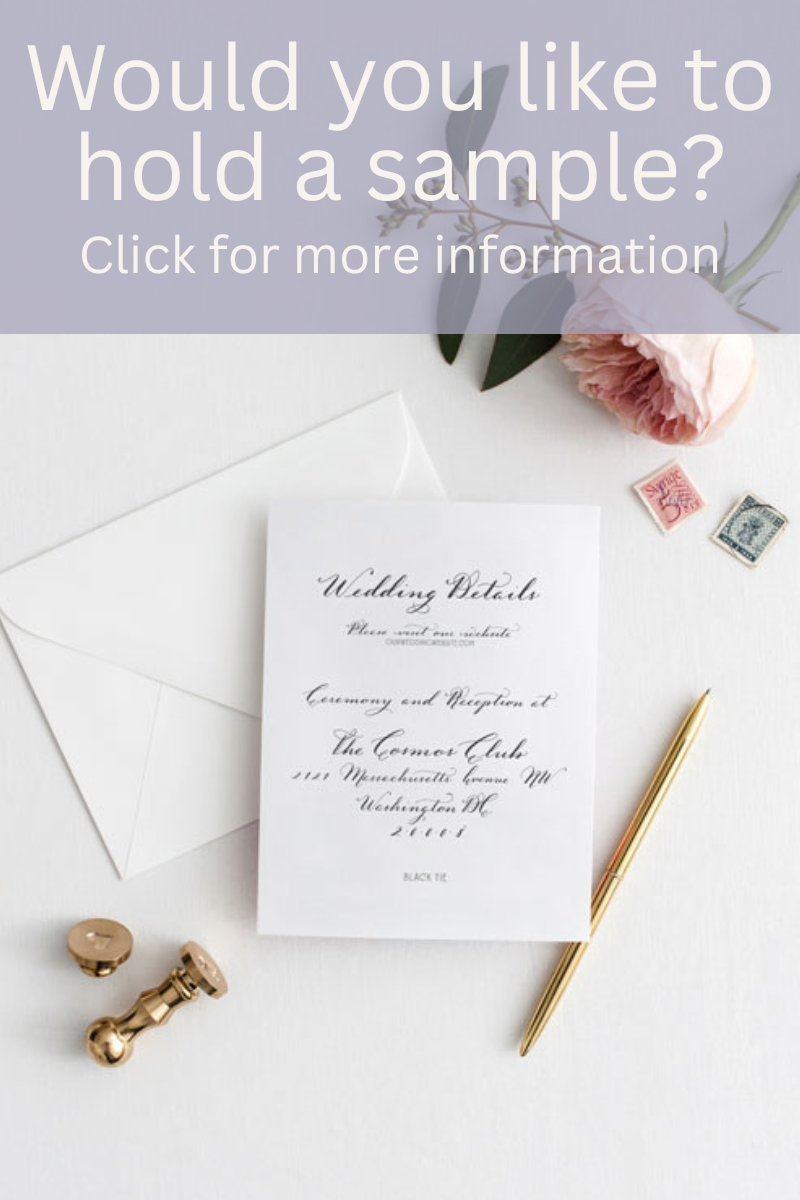
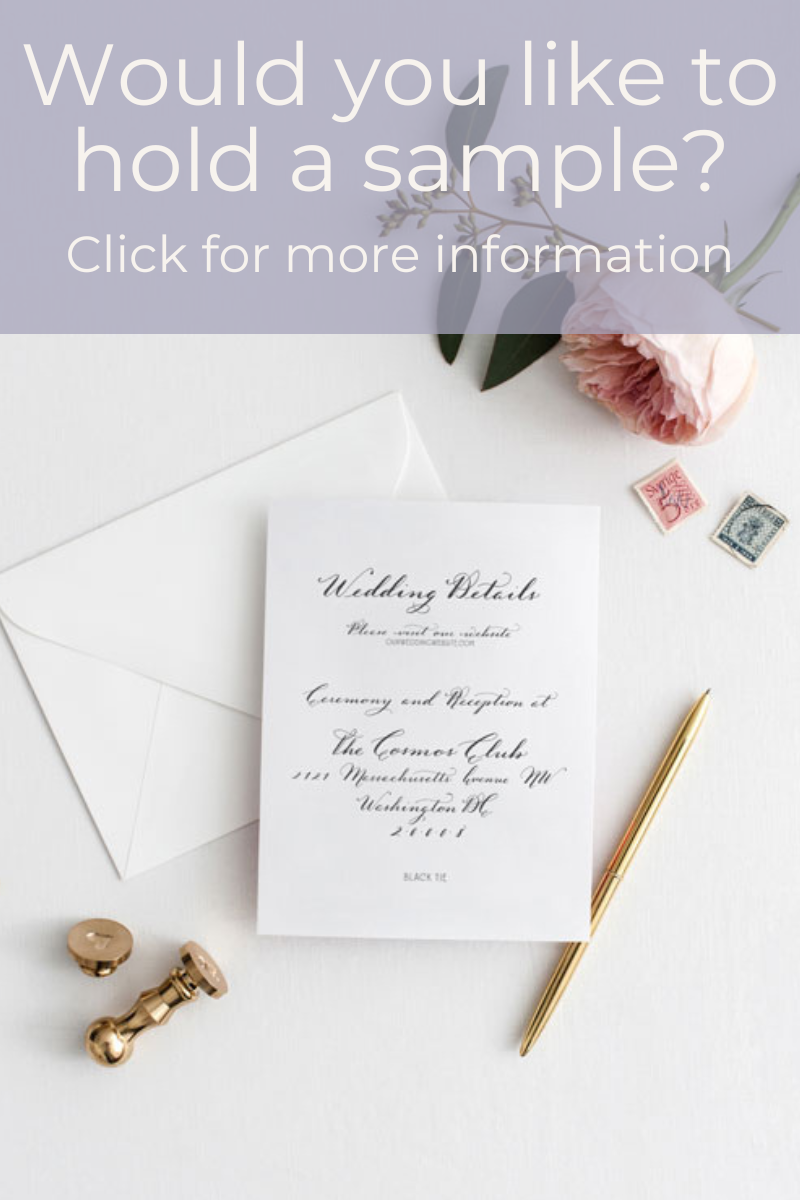
added promos

Changed region(s): [[0.0312, 0.0308, 0.9688, 0.2467]]

diff --git a/layouts/partials/sidebar.html b/layouts/partials/sidebar.html
@@ -1,9 +1,14 @@
 <div class="col-lg-4">
   <div class="widgets">
 
-     <!-- booking -->
-     <div class="widget">
-      <a href="/contact/"><img src="{{`images/promotion.png` | absURL}}" alt="Calligraphy commissions accepted for the 2022/2023 season." class="img-fluid"/></a>
+    <!-- booking -->
+    <div class="widget">
+      <a href="/contact/"><img src="{{`images/promotion-2.png` | absURL}}" alt="Calligraphy commissions accepted for the 2022/2023 season." class="img-fluid"/></a>
+    </div>
+
+    <!-- order samples -->
+    <div class="widget">
+      <a href="https://portal.violettebelle.com/public/form/view/6350260ab869334b6b9fd454" target="_blank"><img src="{{`images/promotion.png` | absURL}}" alt="Order envelope calligraphy samples for your upcoming wedding." class="img-fluid"/></a>
     </div>
 
     <!-- about -->
